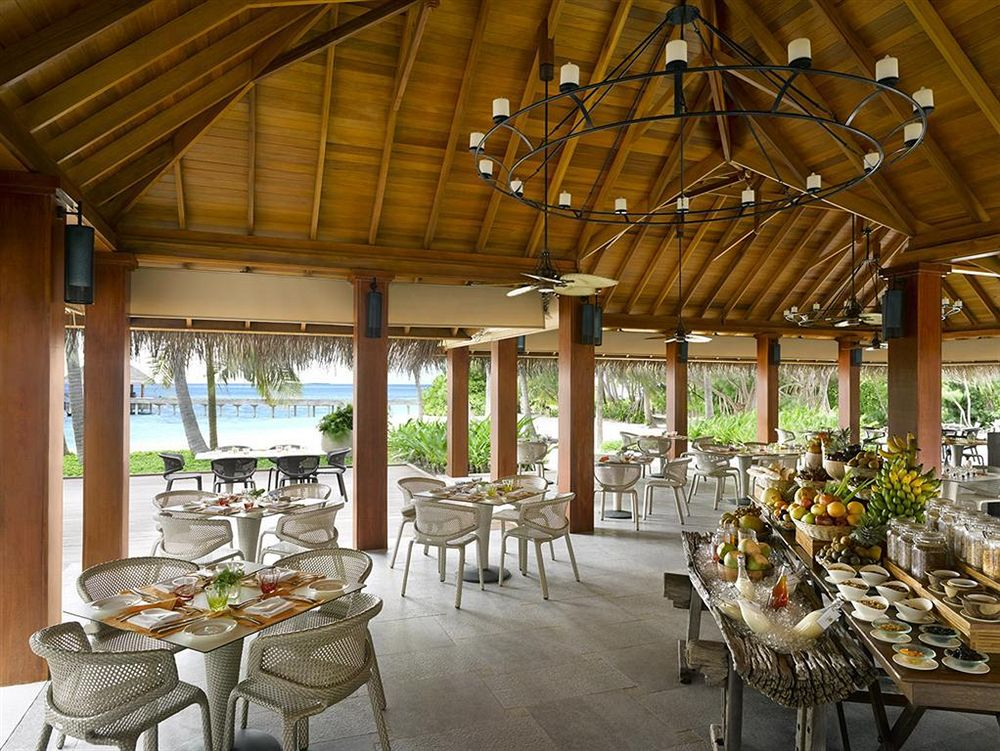
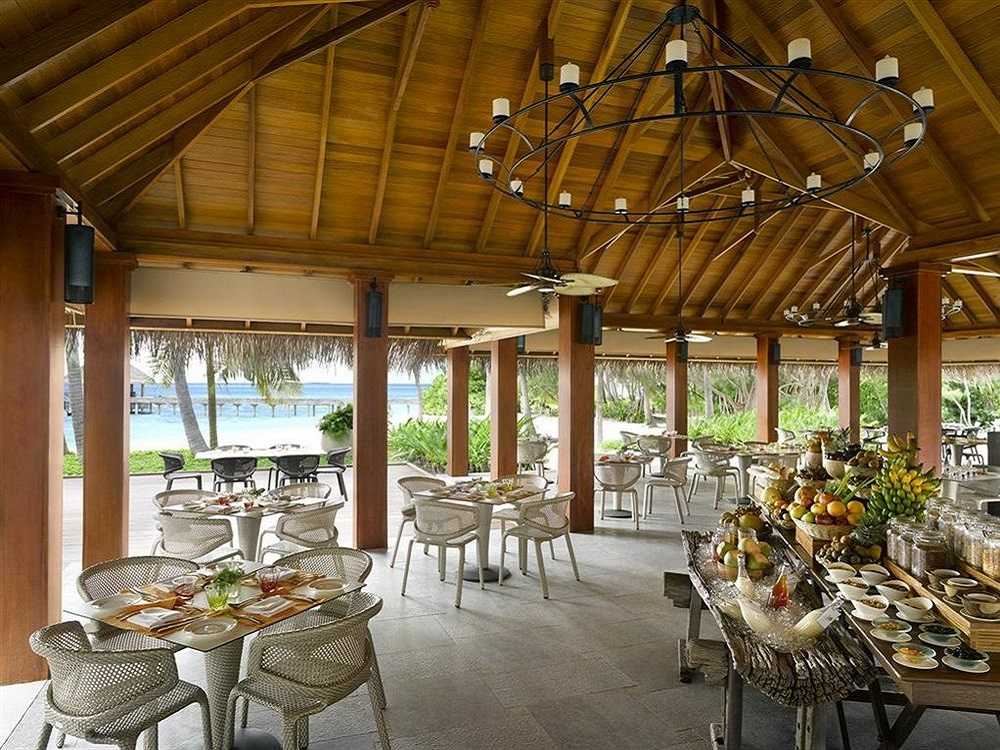
switched some images

diff --git a/Laborations/Lab4_Mudhdhoo/index.html b/Laborations/Lab4_Mudhdhoo/index.html
@@ -143,18 +143,70 @@
         <div class="container-fluid">
             <div class="row row-three">
                 <div class="col-sm-6">
-                    <figure class="img-left">
-                        <img src="images/MLEDT_pool.jpg" />
-                    </figure>
+                    <div class="row">
+                        <div class="col-sm-12">
+                            <figure class="img-left scaled-efx">                             
+                                <img src="images/4794101_24_z.jpg" />
+                            </figure>
+                        </div>
+                        <div class="col-sm-8" style="position:absolute; bottom:0; left:0; font-size:10px;">
+                            <p>Guest Villa Amenities
+                            • Villa ambassador and Butler service
+                            • Private plunge pool
+                            • Outdoor deck area
+                            • 46” Samsung LCD TV with Internet
+                             Protocol Television featuring a selection
+                             of movies and satellite TV channels
+                            • Complimentary Wi-Fi
+                            • Minibar
+                            • Complimentary Nespresso™ coffee and
+                             tea-making facilities
+                            • Complimentary drinking water
+                            • In-villa wine chiller with a selection of wine
+                            • Electronic safety box
+                            • Molton Brown™ bathroom amenities
+                            • Separate shower and bathtub
+                            • Outdoor rain shower
+                            • Housekeeping service provided twice daily
+                            </p>
+                        </div>
+                    </div>
                 </div>
                 <div class="col-sm-6">
-                    <figure class="img-right">
-                        <img src="images/MLEDT_oceanview_bedroom.jpg" />
-                    </figure>
+                    <div class="row">
+                        <div class="col-sm-12">
+                            <figure class="img-right scaled-efx">
+                                <img src="images/4794101_87_z.jpg" />
+                            </figure>
+                        </div>
+                        <div class="col-sm-8" style="position:absolute; bottom:0; left:0; font-size:10px;">
+                            <p>
+                                Guest Villa Amenities
+                                • Villa ambassador and Butler service
+                                • Private plunge pool
+                                • Outdoor deck area
+                                • 46” Samsung LCD TV with Internet
+                                Protocol Television featuring a selection
+                                of movies and satellite TV channels
+                                • Complimentary Wi-Fi
+                                • Minibar
+                                • Complimentary Nespresso™ coffee and
+                                tea-making facilities
+                                • Complimentary drinking water
+                                • In-villa wine chiller with a selection of wine
+                                • Electronic safety box
+                                • Molton Brown™ bathroom amenities
+                                • Separate shower and bathtub
+                                • Outdoor rain shower
+                                • Housekeeping service provided twice daily
+                            </p>
+                        </div>
+                    </div>
                 </div>
             </div>
         </div>
     </article>
+
 
 
     <!--separator-->
@@ -179,7 +231,7 @@
                 </div>
                 <div class="col-md-3 col-sm-6 col-xs-12">
                     <figure class="scaled-efx">
-                        <img src="images/4794101_24_z.jpg" />
+                        <img src="images/4794101_94_z.jpg" />
                     </figure>
                 </div>
                 <div class="col-md-3 col-sm-6 col-xs-12">
@@ -189,7 +241,8 @@
                 </div>
                 <div class="col-md-3 col-sm-6 col-xs-12">
                     <figure class="scaled-efx">
-                        <img src="images/4794101_87_z.jpg" />
+                            
+                        <img src="images/4794101_25_z.jpg" />
                     </figure>
                 </div>
             </div><!--/row-three-->
